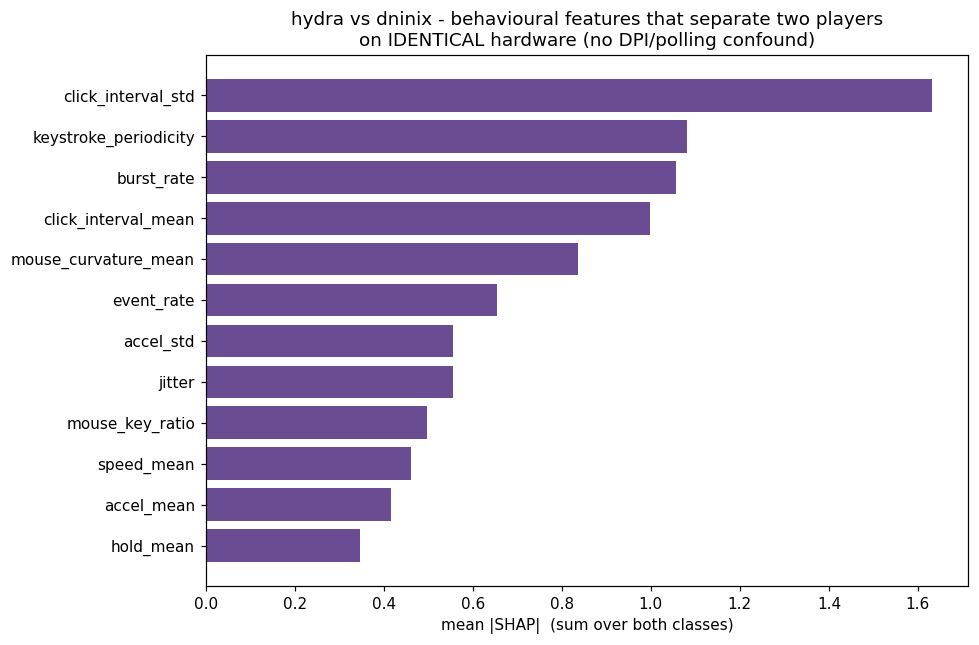
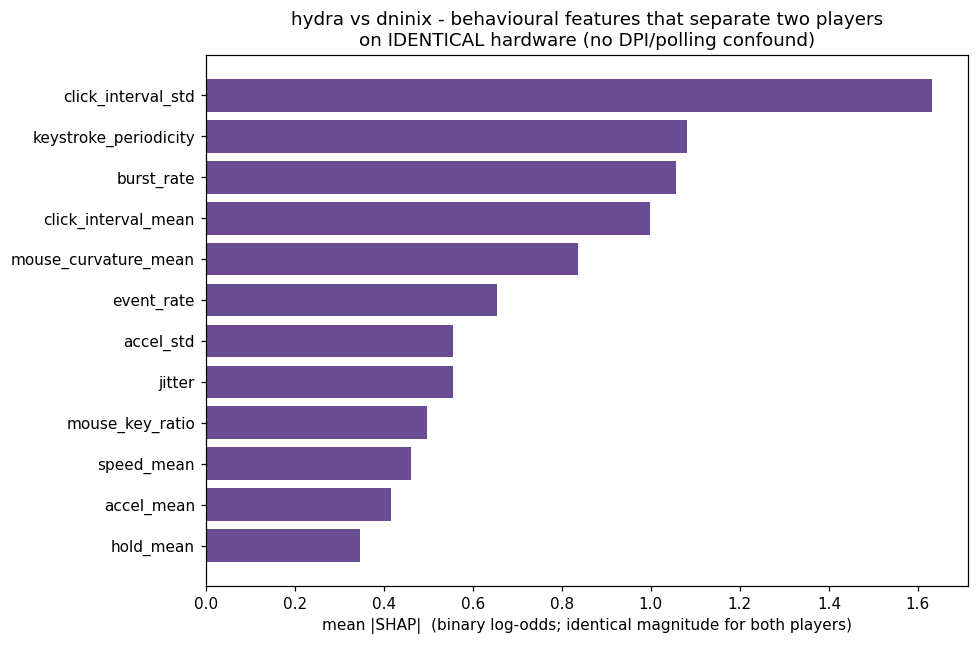
fix(explainability): label binary SHAP column as the class pair it separates
mean_abs_shap: a binary classifier emits a single SHAP array (one class's contribution is the negation of the other's), so mean |SHAP| is identical for both. Label that column "a vs b" instead of mislabelling it with one class name. Refresh Phase 5a SHAP figures + notebook.

Changed region(s): [[0.3371, 0.9612, 0.8887, 0.9922]]

diff --git a/pipeline/explainability.py b/pipeline/explainability.py
@@ -59,11 +59,22 @@ def mean_abs_shap(values, feature_cols, classes) -> pd.DataFrame:
     ``values`` is the array from a TreeExplainer: ``(n_samples, n_features,
     n_classes)`` for multiclass, or ``(n_samples, n_features)`` for a single
     output. Each cell is the mean absolute SHAP value — a global importance.
+
+    Binary classifiers are the single-output case: SHAP emits one array because
+    one class's contribution is exactly the negative of the other's, so mean
+    |SHAP| is identical for both. We therefore label that single column for the
+    *pair* it separates (``"a vs b"``) rather than mislabelling it with one
+    class name — it is each class's importance equally.
     """
     values = np.asarray(values)
     if values.ndim == 2:
         imp = np.abs(values).mean(axis=0)  # (n_features,)
-        col = classes[0] if classes is not None and len(classes) else "importance"
+        if classes is not None and len(classes) == 2:
+            col = f"{classes[0]} vs {classes[1]}"
+        elif classes is not None and len(classes):
+            col = classes[0]
+        else:
+            col = "importance"
         return pd.DataFrame({col: imp}, index=list(feature_cols))
     imp = np.abs(values).mean(axis=0)  # (n_features, n_classes)
     return pd.DataFrame(imp, index=list(feature_cols), columns=list(classes))

diff --git a/tests/test_explainability.py b/tests/test_explainability.py
@@ -57,11 +57,19 @@ class TestTreeShap:
         assert imp.sum(axis=1).idxmax() == "f0"
 
     def test_mean_abs_shap_handles_2d_values(self):
-        # Single-output (binary/regression) shape (n, feat) → one column
+        # Single-output (regression / one class) shape (n, feat) → one column
         vals = np.array([[1.0, -2.0], [3.0, 0.0]])
         out = mean_abs_shap(vals, ["a", "b"], ["pos"])
         assert out.shape == (2, 1)
         assert out.loc["b", "pos"] == 1.0  # mean(|-2|, |0|)
+
+    def test_mean_abs_shap_binary_pair_column(self):
+        # Binary classifiers emit one SHAP array; the column names the *pair*
+        # it separates, not a single (mislabelled) class.
+        vals = np.array([[1.0, -2.0], [3.0, 0.0]])
+        out = mean_abs_shap(vals, ["a", "b"], ["dninix", "hydra"])
+        assert list(out.columns) == ["dninix vs hydra"]
+        assert out.loc["a", "dninix vs hydra"] == 2.0  # mean(|1|, |3|)
 
 
 # ---------------------------------------------------------------------------